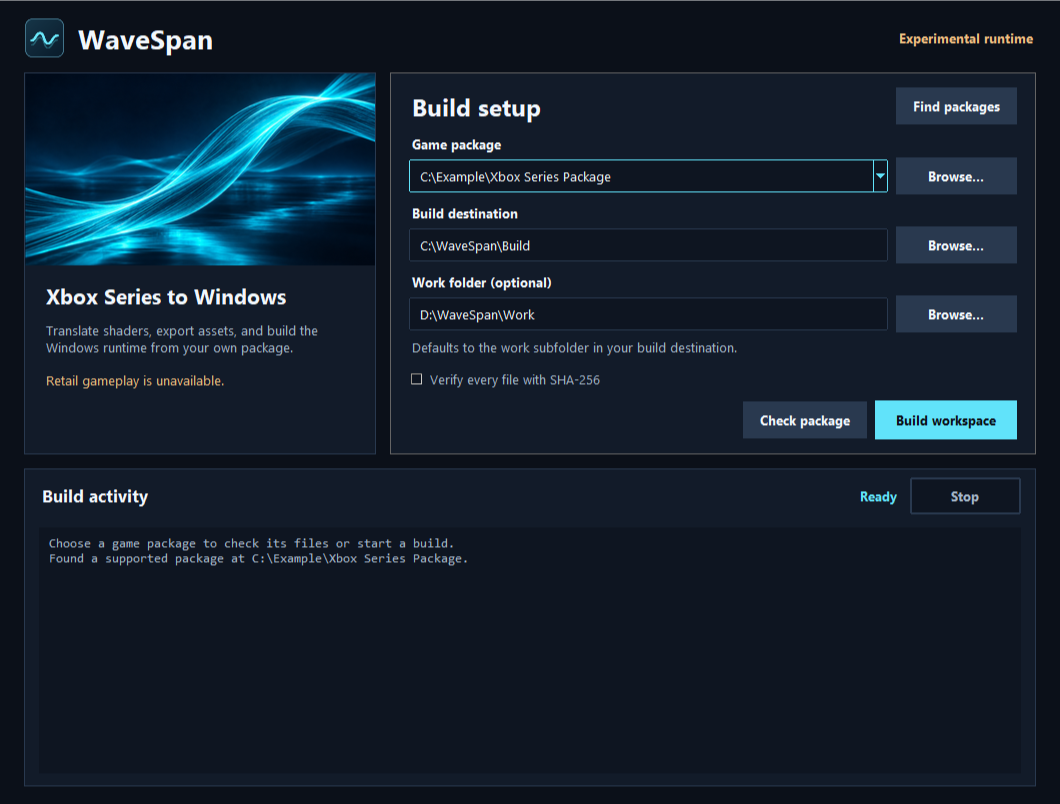
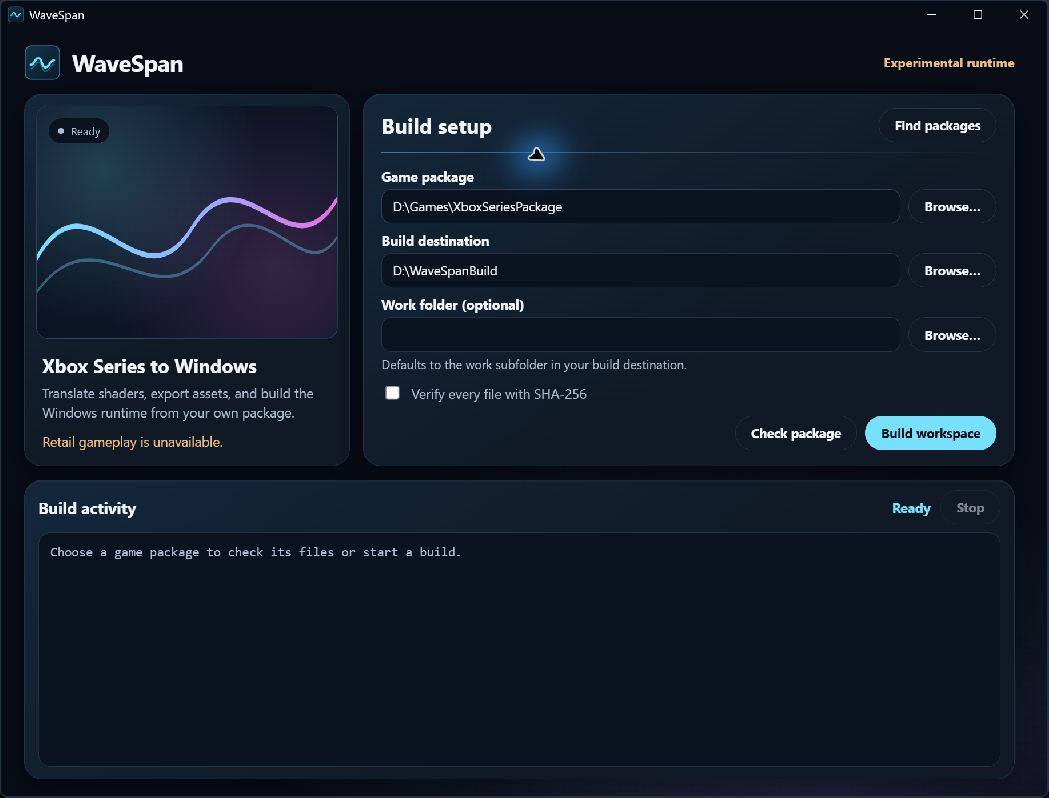
Refresh the Windows launcher screenshot

diff --git a/website/index.html b/website/index.html
@@ -81,6 +81,9 @@
       </div>
       <a class="button primary" href="https://github.com/LeonardWernke/WaveSpan#how-to-build">Read the build guide</a>
     </section>
+    <div class="wrap launcher-preview">
+      <img src="../docs/wavespan-launcher.png" width="1049" height="798" loading="lazy" alt="WaveSpan Windows launcher showing build setup and build activity with example paths">
+    </div>
   </main>
 
   <footer class="footer wrap">

diff --git a/website/style.css b/website/style.css
@@ -256,3 +256,14 @@ dd a { display: inline-block; margin-top: .4rem; color: var(--accent); }
   .progress-gallery { grid-template-columns:minmax(0, 1fr); }
   .hero.wrap { padding-block:var(--space-3); }
 }
+
+.launcher-preview {
+  padding-bottom: 48px;
+}
+
+.launcher-preview img {
+  display: block;
+  width: min(100%, 1049px);
+  height: auto;
+  margin-inline: auto;
+}

diff --git a/README.md b/README.md
@@ -21,7 +21,7 @@ The build runs on your PC.
 > readable on disk. WaveSpan reads files as supplied and includes no decryption tools or keys. Keep game files,
 > generated shaders, extracted assets, and saves on your PC.
 
-![Python launcher showing package selection, build folders, and activity](docs/wavespan-launcher.png)
+![Windows launcher showing package selection, build folders, and activity](docs/wavespan-launcher.png)
 
 ## Tested games
 
